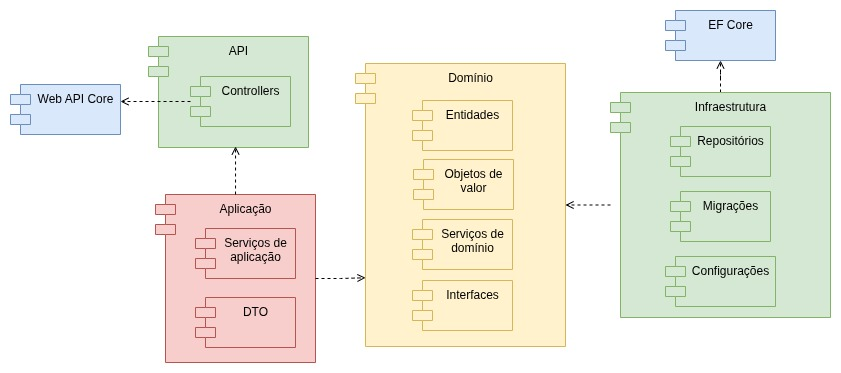
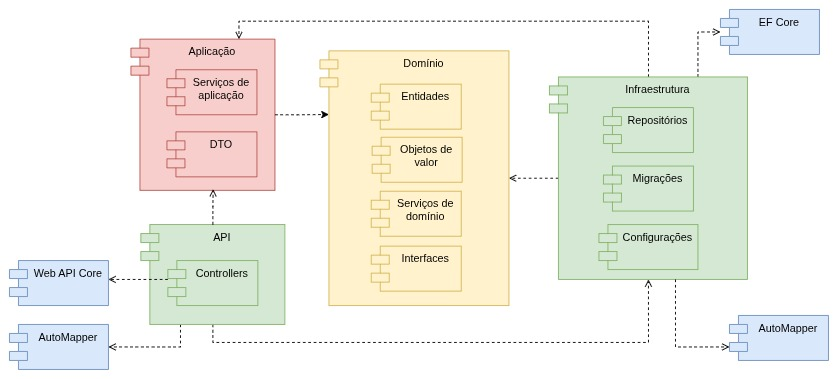
automapper

diff --git a/SistemaBancario.Aplicacao/Servicos/ServicoTransferencia.cs b/SistemaBancario.Aplicacao/Servicos/ServicoTransferencia.cs
@@ -1,5 +1,6 @@
-using AutoMapper;
 using SistemaBancario.Aplicacao.DTOs.Transferencia;
+using SistemaBancario.Aplicacao.Interfaces;
+using SistemaBancario.Dominio.Entidades;
 using SistemaBancario.Dominio.Interfaces;
 using SistemaBancario.Dominio.Servicos;
 
@@ -10,19 +11,19 @@ namespace SistemaBancario.Aplicacao.Servicos
         private readonly IRepositorioConta _repositorioConta;
         private readonly IRepositorioTransacao _repositorioTransacao;
         private readonly IUnidadeTrabalho _unidadeTrabalho;
-        private readonly IMapper _mapper;
+        private readonly IMapeamentoTransacao _mapeamentoTransacao;
 
 
         public ServicoTransferencia(
             IRepositorioConta repositorioConta,
             IRepositorioTransacao repositorioTransacao,
             IUnidadeTrabalho unidadeTrabalho,
-            IMapper mapper)
+            IMapeamentoTransacao mapeamentoTransacao)
         {
             _repositorioConta = repositorioConta;
             _repositorioTransacao = repositorioTransacao;
             _unidadeTrabalho = unidadeTrabalho;
-            _mapper = mapper;
+            _mapeamentoTransacao = mapeamentoTransacao;
         }
 
         public async Task<ResultadoTransferenciaDTO> TransferirAsync(TransferenciaDTO dto)
@@ -44,7 +45,7 @@ namespace SistemaBancario.Aplicacao.Servicos
                     throw new InvalidOperationException("Conta de origem e destino não podem ser iguais");
 
                 TransferirValor transferencia = new TransferirValor();
-                var transacao = transferencia.Transferir(contaOrigem, contaDestino, dto.Valor);
+                Transacao transacao = transferencia.Transferir(contaOrigem, contaDestino, dto.Valor);
 
                 await _repositorioTransacao.AdicionarAsync(transacao);
                 await _repositorioConta.AtualizarAsync(contaOrigem);
@@ -52,7 +53,7 @@ namespace SistemaBancario.Aplicacao.Servicos
 
                 await _unidadeTrabalho.ConfirmarTransacaoAsync();
 
-                return _mapper.Map<ResultadoTransferenciaDTO>(transacao);                
+                return _mapeamentoTransacao.ToDTO(transacao);                
             }
             catch (Exception)
             {

diff --git a/SistemaBancario.Aplicacao/Servicos/ServicoConta.cs b/SistemaBancario.Aplicacao/Servicos/ServicoConta.cs
@@ -1,6 +1,6 @@
-using AutoMapper;
 using SistemaBancario.Aplicacao.DTOs.ConsultarConta;
 using SistemaBancario.Aplicacao.DTOs.CriarConta;
+using SistemaBancario.Aplicacao.Interfaces;
 using SistemaBancario.Dominio.Entidades;
 using SistemaBancario.Dominio.Interfaces;
 
@@ -10,16 +10,16 @@ namespace SistemaBancario.Aplicacao.Servicos
     {
         private readonly IRepositorioConta _repositorioConta;
         private readonly IUnidadeTrabalho _unidadeTrabalho;
-        private readonly IMapper _mapper;
+        private readonly IMapeamentoConta _mapeamentoConta;
 
         public ServicoConta(
             IRepositorioConta repositorioConta,
             IUnidadeTrabalho unidadeTrabalho,
-            IMapper mapper)
+            IMapeamentoConta mapeamentoConta)
         {
             _repositorioConta = repositorioConta;
             _unidadeTrabalho = unidadeTrabalho;
-            _mapper = mapper;
+            _mapeamentoConta = mapeamentoConta;
         }
 
         public async Task CriarAsync(CriarContaDTO dto)
@@ -46,14 +46,15 @@ namespace SistemaBancario.Aplicacao.Servicos
 
         public async Task<List<ResultadoListar>> ListarAsync()
         {
-            var contas = await _repositorioConta.ListarAsync();
-            return _mapper.Map<List<ResultadoListar>>(contas);
+            List<Conta> contas = await _repositorioConta.ListarAsync();
+            return _mapeamentoConta.ToDTO(contas);
         }
 
         public async Task<ResultadoObterPorNumero?> ObterPorNumeroAsync(string numeroConta)
         {
             Conta? conta = await _repositorioConta.ObterPorNumeroAsync(numeroConta);
-            return _mapper.Map<ResultadoObterPorNumero>(conta);
+            return _mapeamentoConta.ToDTO(conta);
+
         }
     }
 }

diff --git a/SistemaBancario.Api/Program.cs b/SistemaBancario.Api/Program.cs
@@ -4,7 +4,8 @@ using SistemaBancario.Infraestrutura.Dados;
 using SistemaBancario.Infraestrutura.Repositorios;
 using SistemaBancario.Dominio.Interfaces;
 using SistemaBancario.Aplicacao.Servicos;
-using SistemaBancario.Aplicacao.Mapeamentos;
+using SistemaBancario.Infraestrutura.Mapeamentos;
+using SistemaBancario.Aplicacao.Interfaces;
 
 var construtor = WebApplication.CreateBuilder(args);
 
@@ -15,13 +16,14 @@ construtor.Services.AddDbContext<ContextoBancario>(opcoes =>
     opcoes.UseMySql(stringConexao, ServerVersion.AutoDetect(stringConexao));
 });
 
-// Registro do AutoMapper
-construtor.Services.AddAutoMapper(typeof(ContaMapeamento), typeof(TransacaoMapeamento));
+construtor.Services.AddAutoMapper(typeof(PerfilConta), typeof(PerfilTransacao));
 
 // Configurar repositórios
 construtor.Services.AddScoped<IRepositorioConta, RepositorioConta>();
 construtor.Services.AddScoped<IRepositorioTransacao, RepositorioTransacao>();
 construtor.Services.AddScoped<IUnidadeTrabalho, UnidadeTrabalho>();
+construtor.Services.AddScoped<IMapeamentoConta, MapeamentoConta>();
+construtor.Services.AddScoped<IMapeamentoTransacao, MapeamentoTransacao>();
 
 // Configurar serviços
 construtor.Services.AddScoped<ServicoConta>();

diff --git a/SistemaBancario.Infraestrutura/Mapeamentos/MapeamentoConta.cs b/SistemaBancario.Infraestrutura/Mapeamentos/MapeamentoConta.cs
@@ -1,0 +1,27 @@
+using AutoMapper;
+using SistemaBancario.Aplicacao.DTOs.ConsultarConta;
+using SistemaBancario.Aplicacao.Interfaces;
+using SistemaBancario.Dominio.Entidades;
+
+namespace SistemaBancario.Infraestrutura.Mapeamentos
+{
+    public class MapeamentoConta : IMapeamentoConta
+    {
+        private readonly IMapper _mapper;
+
+        public MapeamentoConta(IMapper mapper)
+        {
+            _mapper = mapper;
+        }
+
+        public List<ResultadoListar> ToDTO(List<Conta> contas)
+        {
+            return _mapper.Map<List<ResultadoListar>>(contas);
+        }
+
+        public ResultadoObterPorNumero? ToDTO(Conta? conta)
+        {
+            return _mapper.Map<ResultadoObterPorNumero?>(conta);
+        }
+    }
+}

diff --git a/SistemaBancario.Infraestrutura/Mapeamentos/MapeamentoTransacao.cs b/SistemaBancario.Infraestrutura/Mapeamentos/MapeamentoTransacao.cs
@@ -1,0 +1,22 @@
+using AutoMapper;
+using SistemaBancario.Aplicacao.DTOs.Transferencia;
+using SistemaBancario.Aplicacao.Interfaces;
+using SistemaBancario.Dominio.Entidades;
+
+namespace SistemaBancario.Infraestrutura.Mapeamentos
+{
+    public class MapeamentoTransacao : IMapeamentoTransacao
+    {
+        private readonly IMapper _mapper;
+
+        public MapeamentoTransacao(IMapper mapper)
+        {
+            _mapper = mapper;
+        }
+
+        public ResultadoTransferenciaDTO ToDTO(Transacao transacao)
+        {
+            return _mapper.Map<ResultadoTransferenciaDTO>(transacao);
+        }
+    }
+}

diff --git a/SistemaBancario.Infraestrutura/Mapeamentos/PerfilTransacao.cs b/SistemaBancario.Infraestrutura/Mapeamentos/PerfilTransacao.cs
@@ -2,11 +2,11 @@ using AutoMapper;
 using SistemaBancario.Aplicacao.DTOs.Transferencia;
 using SistemaBancario.Dominio.Entidades;
 
-namespace SistemaBancario.Aplicacao.Mapeamentos
+namespace SistemaBancario.Infraestrutura.Mapeamentos
 {
-    public class TransacaoMapeamento : Profile
+    public class PerfilTransacao : Profile
     {
-        public TransacaoMapeamento()
+        public PerfilTransacao()
         {
             CreateMap<Transacao, ResultadoTransferenciaDTO>()
                 .ForMember(dest => dest.CodigoTransacao, opt => opt.MapFrom(src => src.CodigoTransacao))

diff --git a/SistemaBancario.Infraestrutura/Mapeamentos/PerfilConta.cs b/SistemaBancario.Infraestrutura/Mapeamentos/PerfilConta.cs
@@ -2,11 +2,11 @@ using AutoMapper;
 using SistemaBancario.Aplicacao.DTOs.ConsultarConta;
 using SistemaBancario.Dominio.Entidades;
 
-namespace SistemaBancario.Aplicacao.Mapeamentos
+namespace SistemaBancario.Infraestrutura.Mapeamentos
 {
-    public class ContaMapeamento : Profile
+    public class PerfilConta : Profile
     {
-        public ContaMapeamento()
+        public PerfilConta()
         {
             CreateMap<Conta, ResultadoListar>()
                 .ForMember(dest => dest.Numero, opt => opt.MapFrom(src => src.Numero))

diff --git a/SistemaBancario.Aplicacao/Interfaces/IMapeamentoConta.cs b/SistemaBancario.Aplicacao/Interfaces/IMapeamentoConta.cs
@@ -1,0 +1,11 @@
+using SistemaBancario.Aplicacao.DTOs.ConsultarConta;
+using SistemaBancario.Dominio.Entidades;
+
+namespace SistemaBancario.Aplicacao.Interfaces
+{
+    public interface IMapeamentoConta
+    {
+        List<ResultadoListar> ToDTO(List<Conta> contas);
+        ResultadoObterPorNumero? ToDTO(Conta? contas);
+    }
+}

diff --git a/SistemaBancario.Aplicacao/Interfaces/IMapeamentoTransacao.cs b/SistemaBancario.Aplicacao/Interfaces/IMapeamentoTransacao.cs
@@ -1,0 +1,10 @@
+using SistemaBancario.Aplicacao.DTOs.Transferencia;
+using SistemaBancario.Dominio.Entidades;
+
+namespace SistemaBancario.Aplicacao.Interfaces
+{
+    public interface IMapeamentoTransacao
+    {
+        ResultadoTransferenciaDTO ToDTO(Transacao transacao);
+    }
+}
